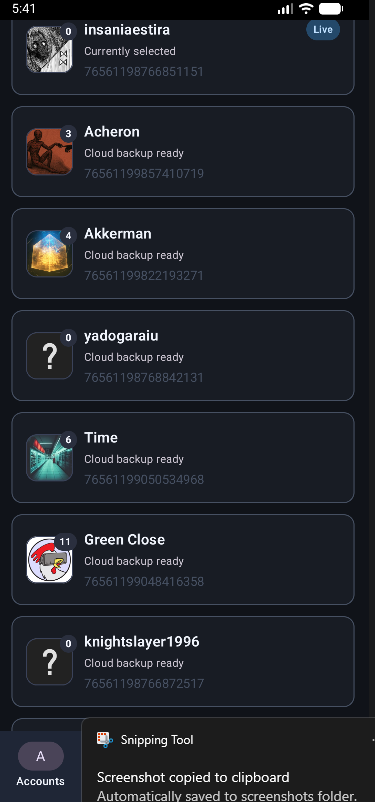
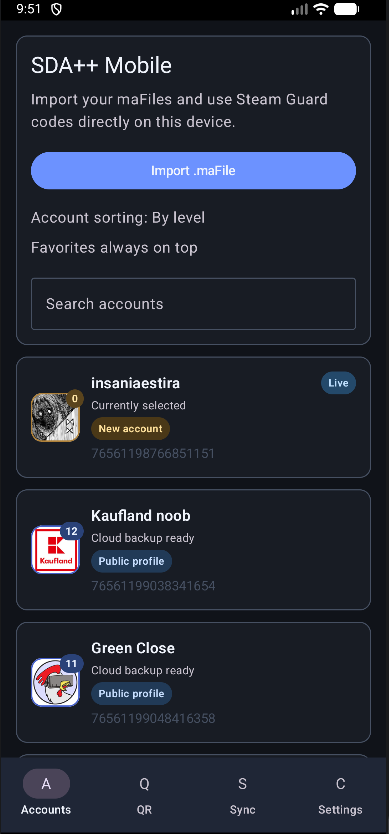
Update GitHub screenshots

diff --git a/README.md b/README.md
@@ -16,9 +16,17 @@ SDA++ Mobile is built for personal account management convenience. It is not aff
 
 ## Screenshots
 
-| Accounts | QR Scanner | Cloud Sync |
-| --- | --- | --- |
-| ![Accounts](./assets/screenshots/accounts.png) | ![QR Scanner](./assets/screenshots/qr-scanner.png) | ![Cloud Sync](./assets/screenshots/cloud-sync.png) |
+| Accounts | QR Scanner |
+| --- | --- |
+| ![Accounts](./assets/screenshots/accounts.png) | ![QR Scanner](./assets/screenshots/qr-scanner.png) |
+
+| Cloud Sync | Settings |
+| --- | --- |
+| ![Cloud Sync](./assets/screenshots/cloud-sync.png) | ![Settings](./assets/screenshots/settings.png) |
+
+| Account Detail | QR Account Picker |
+| --- | --- |
+| ![Account Detail](./assets/screenshots/account-detail.png) | ![QR Account Picker](./assets/screenshots/qr-account-picker.png) |
 
 ## How It Works
 